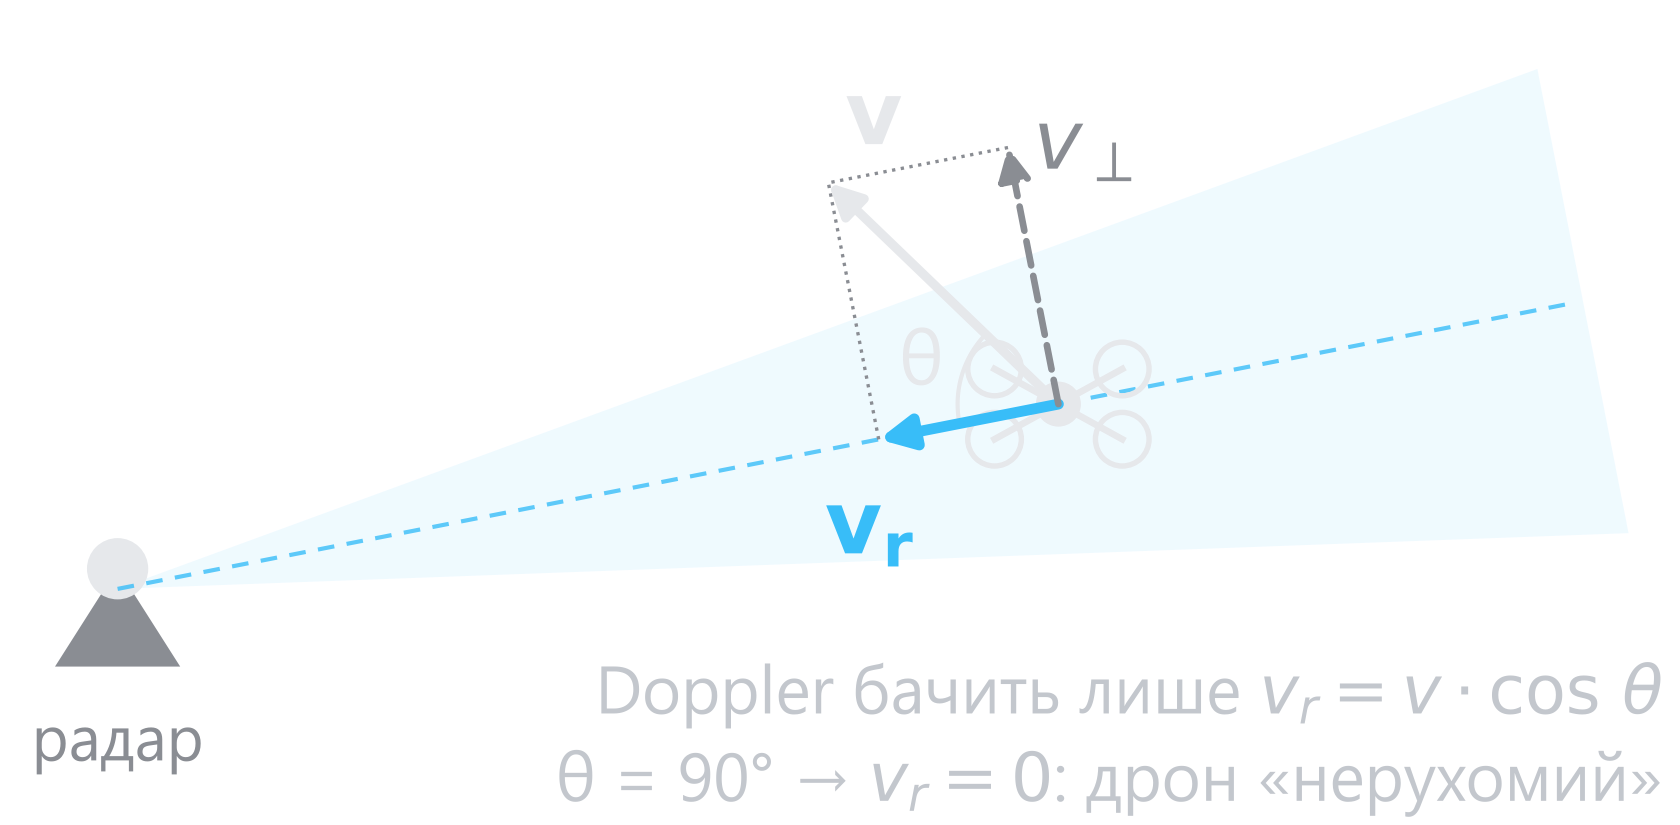
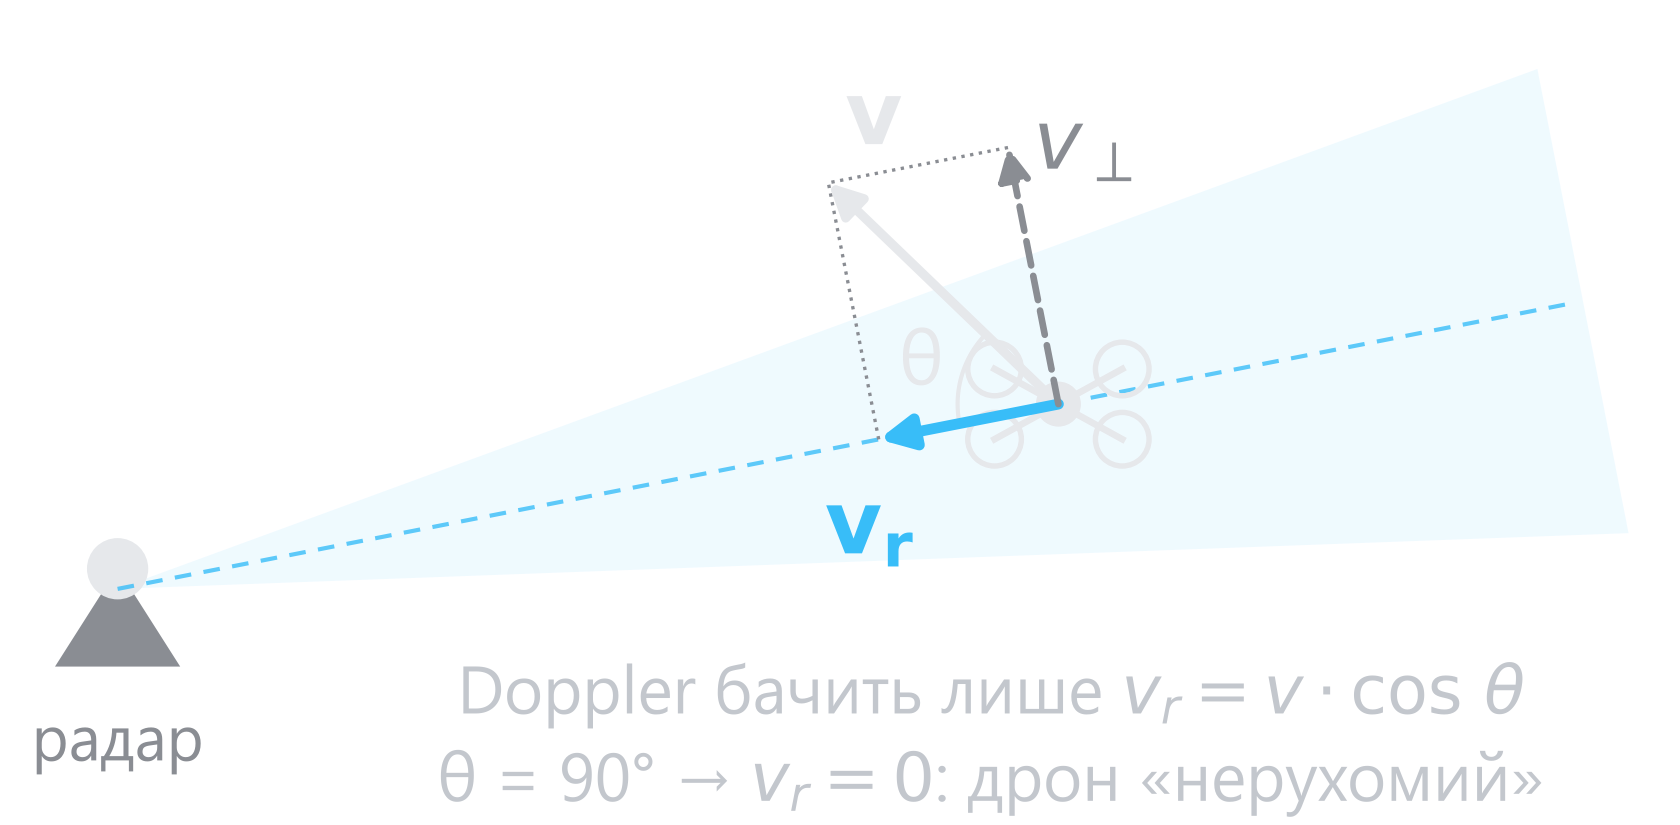
Slide 13: center Doppler caption away from card corner

Changed region(s): [[0.2476, 0.9091, 0.9905, 1.0], [0.2786, 0.7879, 0.9905, 0.8788]]

diff --git a/scripts/p13_fmcw_why.py b/scripts/p13_fmcw_why.py
@@ -116,8 +116,8 @@ ax.text(D[0] + 0.85 * np.cos(am), D[1] + 0.85 * np.sin(am), "θ", color=FG, font
 ax.text(*(D + v + [0.1, 0.12]), r"$\mathbf{v}$", color=FG, fontsize=21, ha="left", va="bottom")
 ax.text(*(D + vr + [-0.05, -0.3]), r"$\mathbf{v_r}$", color=CYAN, fontsize=21, ha="center", va="top")
 ax.text(*(D + vp + [0.15, 0]), r"$v_\perp$", color=MUTED, fontsize=20, ha="left", va="center")
-ax.text(9.9, 0.5, "Doppler бачить лише $v_r = v\\cdot\\cos\\,θ$\nθ = 90° → $v_r = 0$: дрон «нерухомий»",
-        color=BODY, fontsize=16, ha="right", va="center", linespacing=1.4)
+ax.text(5.9, 0.5, "Doppler бачить лише $v_r = v\\cdot\\cos\\,θ$\nθ = 90° → $v_r = 0$: дрон «нерухомий»",
+        color=BODY, fontsize=16, ha="center", va="center", linespacing=1.4)
 fig.savefig(os.path.join(out_dir, "p13_doppler_vr.png"), dpi=300, transparent=True)
 plt.close(fig)
 print("ok")
